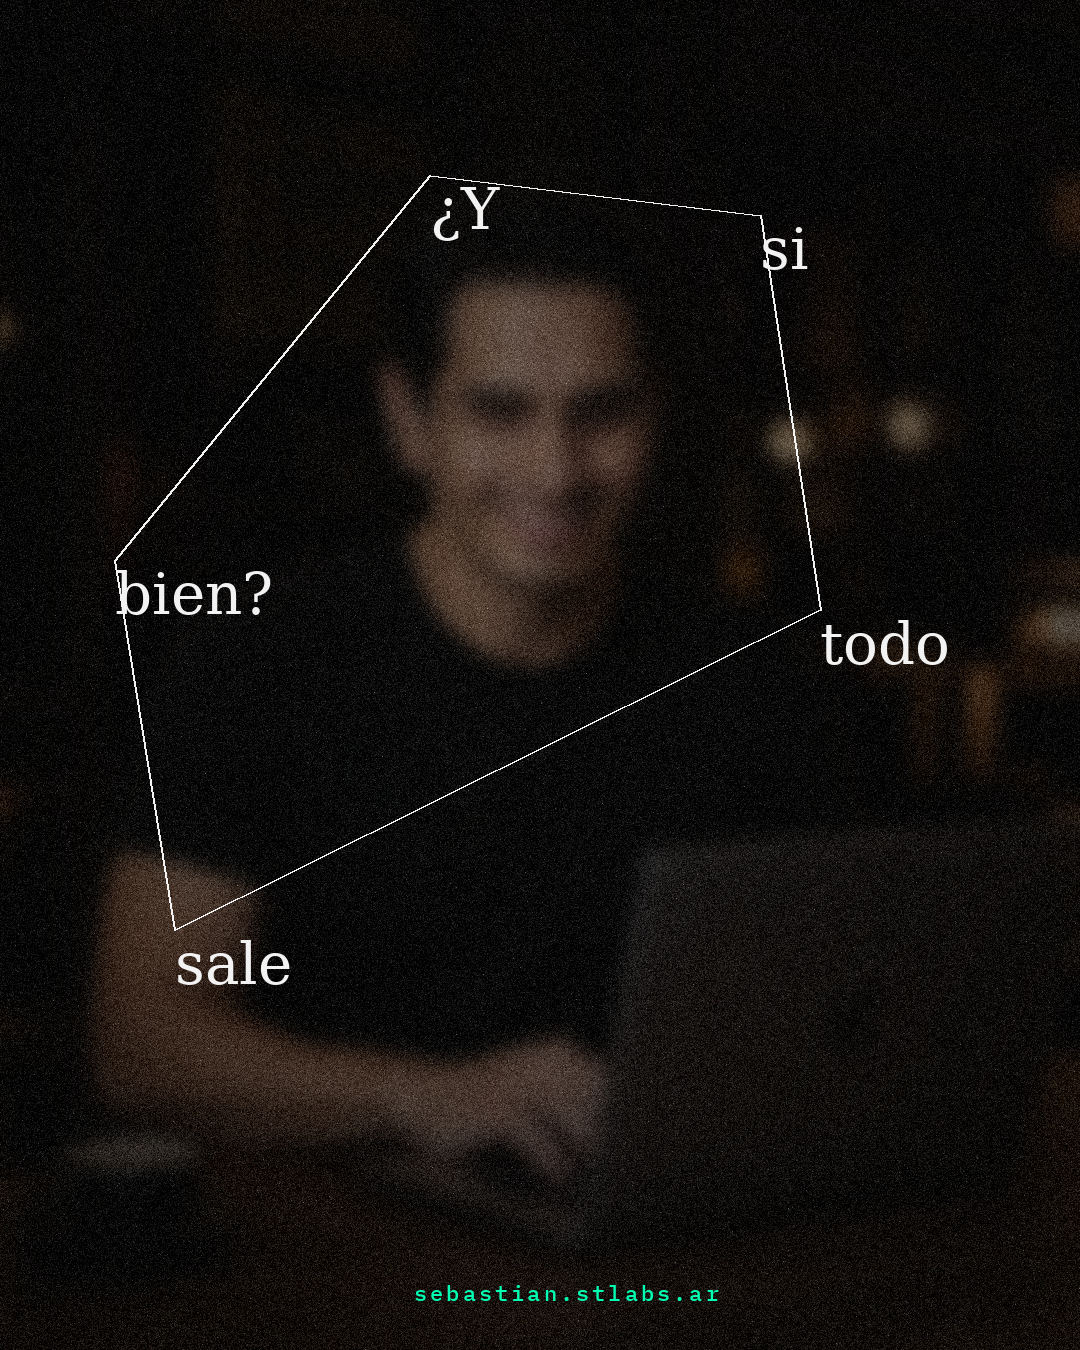
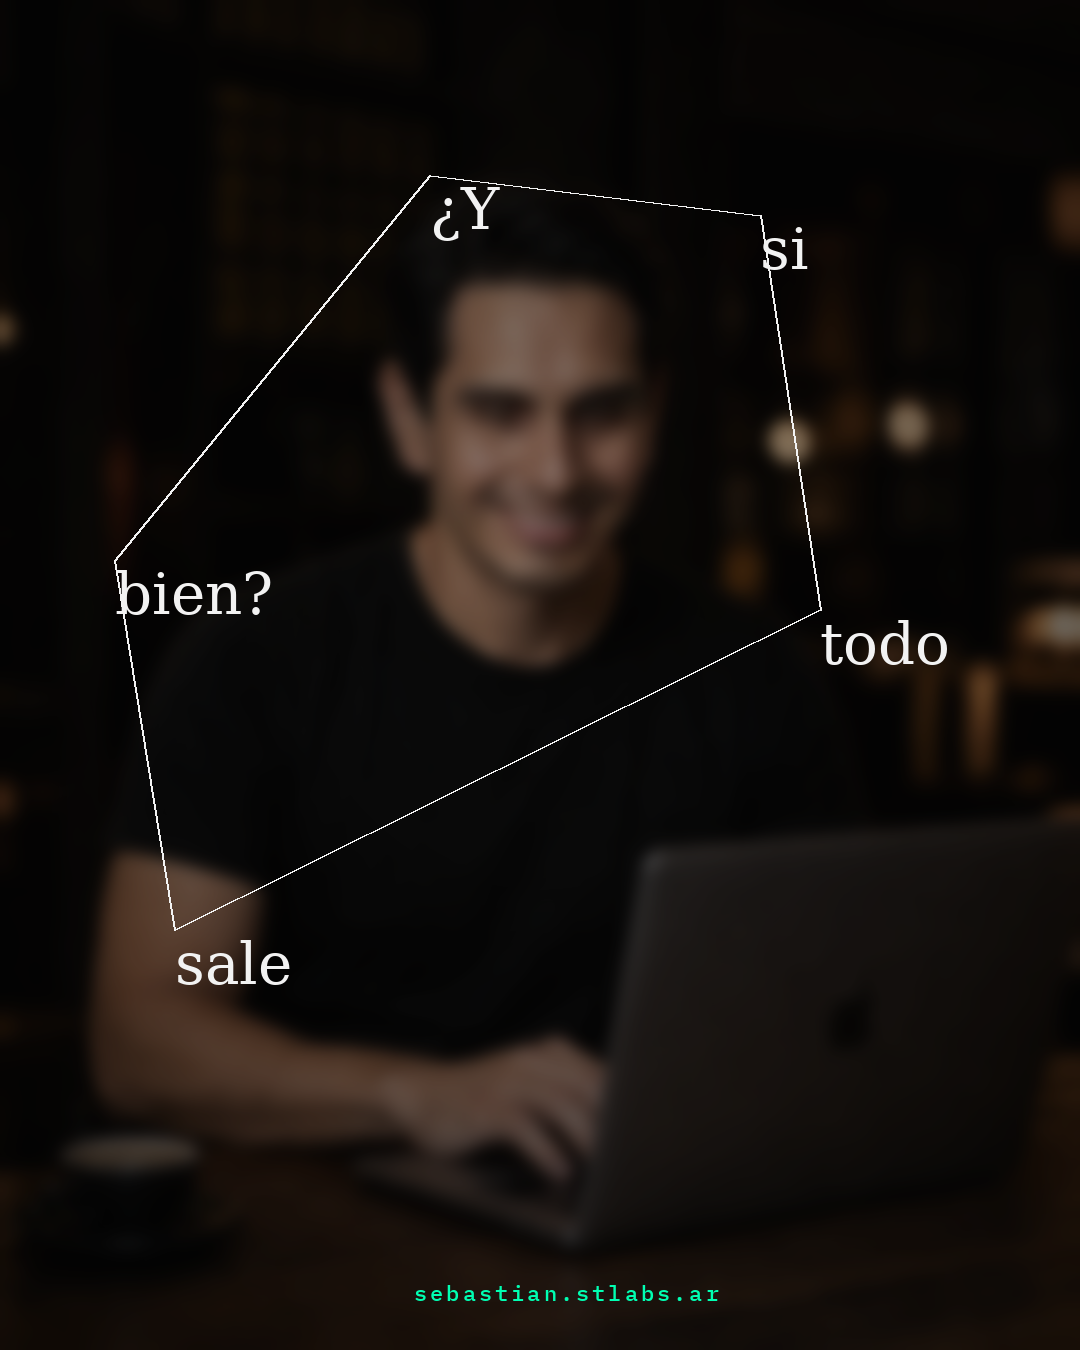
Portada: sin grain en Sebastián, foto un poco más visible

diff --git a/scripts/sebastian_frases_recrear.py b/scripts/sebastian_frases_recrear.py
@@ -48,16 +48,16 @@ def subtle_sebastian_layer(path: Path, opacity: float = 0.38) -> Image.Image:
         im = im.crop((0, y0, iw, min(ih, y0 + nh)))
     im = im.resize((W, H), Image.Resampling.LANCZOS)
 
-    arr = cv2.GaussianBlur(np.array(im), (0, 0), 10).astype(np.float32)
-    arr *= 0.88
+    arr = cv2.GaussianBlur(np.array(im), (0, 0), 8).astype(np.float32)
+    arr *= 0.92
     gray = arr.mean(axis=2, keepdims=True)
-    arr = arr * 0.72 + gray * 0.28
+    arr = arr * 0.78 + gray * 0.22
 
     # viñeta suave → negro en bordes
     xs = (np.arange(W, dtype=np.float32) - W * 0.5) / (W * 0.68)
     ys = (np.arange(H, dtype=np.float32) - H * 0.44) / (H * 0.62)
     dist = np.sqrt(xs[np.newaxis, :] ** 2 + ys[:, np.newaxis] ** 2)
-    vig = 1.0 - np.clip(dist, 0, 1) ** 1.25 * 0.55
+    vig = 1.0 - np.clip(dist, 0, 1) ** 1.25 * 0.48
     arr *= vig[..., np.newaxis]
 
     photo = Image.fromarray(np.clip(arr, 0, 255).astype(np.uint8))
@@ -81,8 +81,7 @@ def draw_firma(draw: ImageDraw.ImageDraw, y: int = H - 72) -> None:
 
 
 def slide_01_portada() -> Image.Image:
-    im = subtle_sebastian_layer(PHOTO, opacity=0.58)
-    im = add_grain(im, seed=42)
+    im = subtle_sebastian_layer(PHOTO, opacity=0.66)
     draw = ImageDraw.Draw(im)
     font = ImageFont.truetype(SERIF, 58)
 
